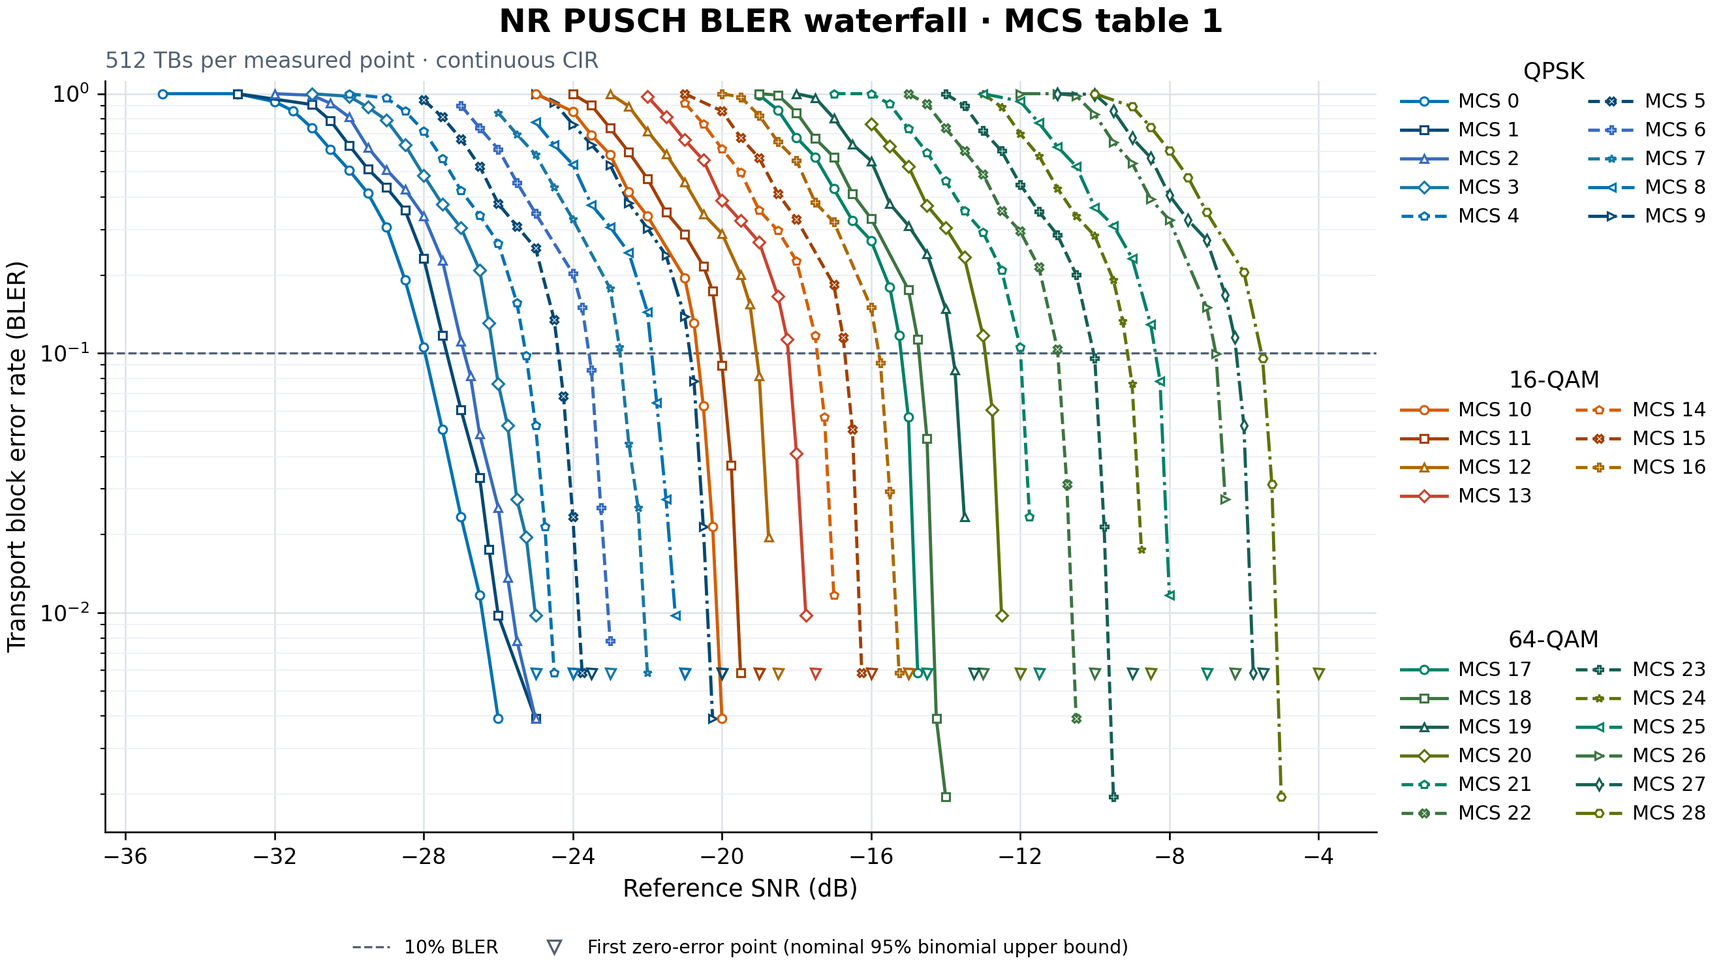
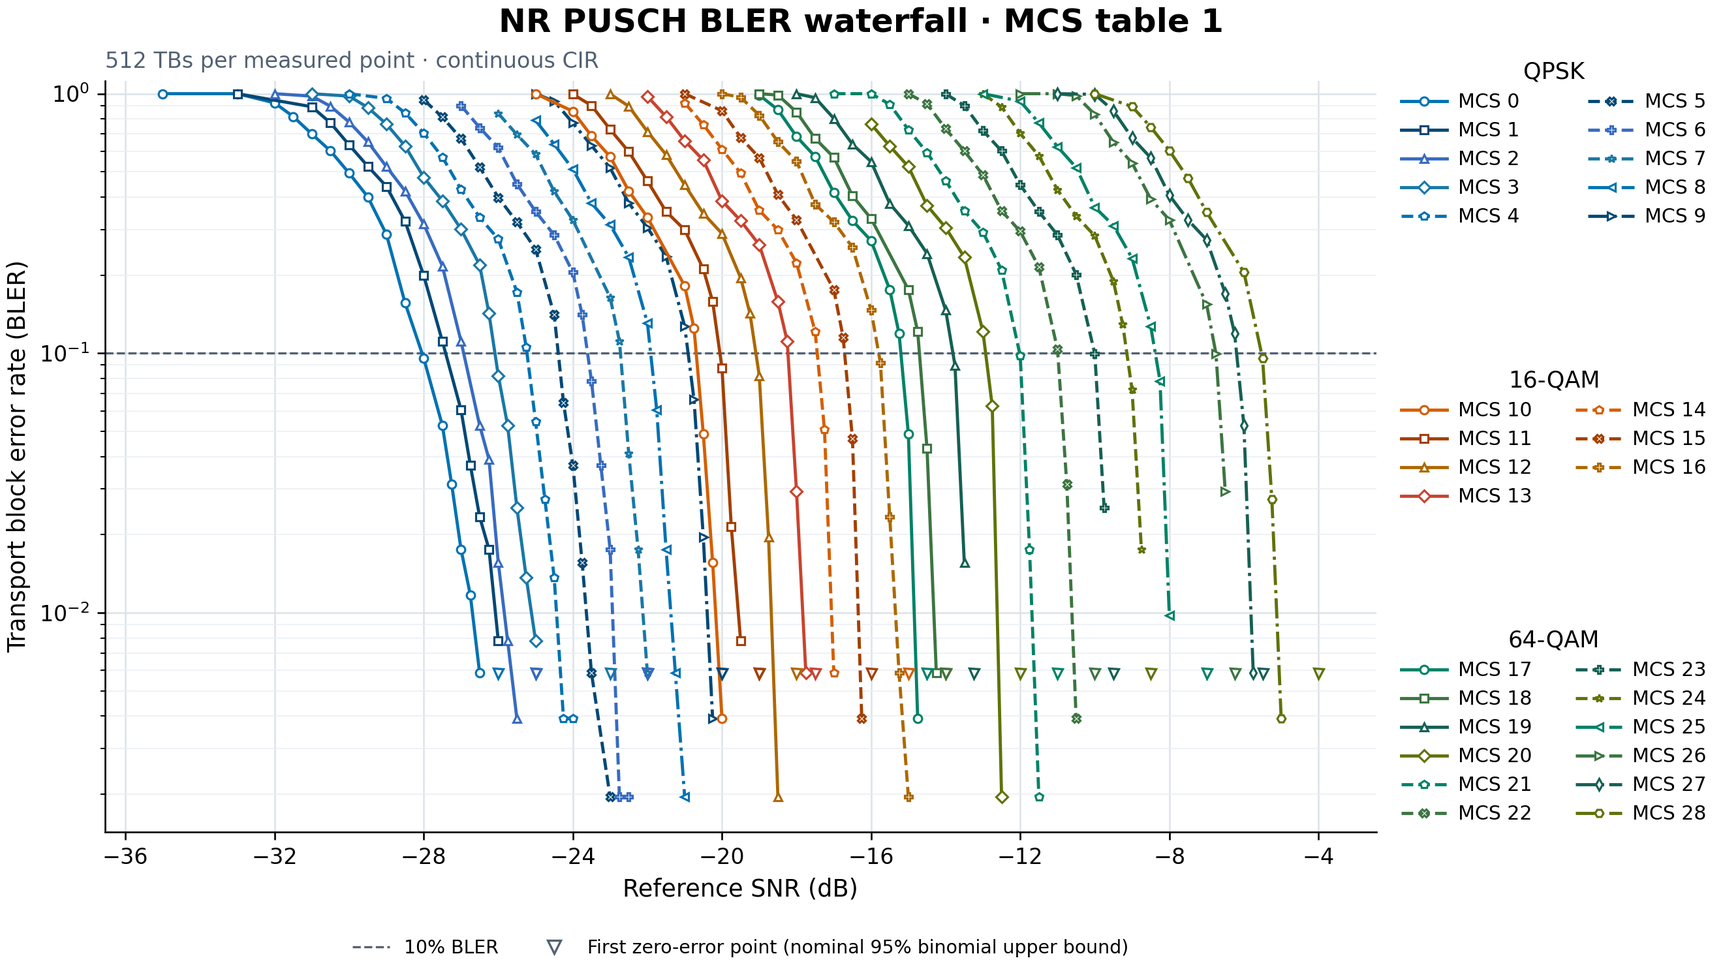
Fix SRS periodicity semantics and review findings
- TDD SRS now sounds on the first S slot at least srs_period_slots after the previous SRS (TS 38.211 T_SRS); DSUDD + 5 sounds every 5 slots
- Waterfall channel bank honors srs_estimator=perfect and records it
- Custom continuous CIR raises a clear error when total_slots does not cover the timeline
- Measurement-stage DM-RS/scrambling use the physical slot number
- OllaSettings.fit_budget shrinks windows for --num-tb/--warmup-tb overrides; add --seed to run_uplink/run_ice_rce
- README: SRS period/power assumptions, single-drop statistics note, regenerated showcase figures
- Tests: 90 passing

diff --git a/pusch_baseline/tests/test_tdd_simulation.py b/pusch_baseline/tests/test_tdd_simulation.py
@@ -54,13 +54,14 @@ class TddSimulationTests(unittest.TestCase):
         result = simulate(self.config, channel_model_factory=factory)
         point, = result["points"]
 
+        # srs_period_slots=5 sounds every S slot of DSUDD, once per 5-slot period.
         indicated = point["srs_grants"]
-        self.assertEqual([grant["slot_index"] for grant in indicated], [1, 11, 21])
-        self.assertEqual([grant["tpmi"] for grant in indicated], [0, 3, 0])
+        self.assertEqual([grant["slot_index"] for grant in indicated], [1, 6, 11, 16, 21])
+        self.assertEqual([grant["tpmi"] for grant in indicated], [0, 3, 0, 3, 0])
         self.assertTrue(all(isfinite(grant["effective_sinr_db"]) for grant in indicated))
         self.assertEqual((point["num_tb"], point["num_srs_slots"], point["num_slots"]),
-                         (5, 3, 23))
-        self.assertEqual(point["num_idle_slots"], 15)
+                         (5, 5, 23))
+        self.assertEqual(point["num_idle_slots"], 13)
         self.assertEqual(point["tb_errors"], 0)
         self.assertEqual({grant["tpmi"]: grant["num_tb"] for grant in point["grant_counts"]},
                          {0: 3, 3: 2})
@@ -68,15 +69,15 @@ class TddSimulationTests(unittest.TestCase):
                                point["thp_scheduled_mbps"] * 5 / 23)
         self.assertEqual(point["thp_wall_clock_mbps"], point["thp_including_srs_mbps"])
         clusters = point["throughput_srs_clusters"]
-        self.assertEqual([cluster["srs_slot_index"] for cluster in clusters], [1, 11, 21])
-        self.assertEqual([cluster["num_slots"] for cluster in clusters], [11, 10, 2])
+        self.assertEqual([cluster["srs_slot_index"] for cluster in clusters], [1, 6, 11, 16, 21])
+        self.assertEqual([cluster["num_slots"] for cluster in clusters], [6, 5, 5, 5, 2])
         self.assertEqual(sum(cluster["delivered_payload_bits"] for cluster in clusters),
                          point["delivered_payload_bits"])
-        self.assertEqual(point["throughput_ci95_num_clusters"], 3)
+        self.assertEqual(point["throughput_ci95_num_clusters"], 5)
         low, high = point["throughput_ci95_mbps"]
         self.assertLess(low, point["thp_wall_clock_mbps"])
         self.assertGreater(high, point["thp_wall_clock_mbps"])
-        self.assertEqual(cir_lengths, [98, 98, 28])
+        self.assertEqual(cir_lengths, [28] * 5)
         self.assertEqual(result["metadata"]["adaptation"]["srs_sounded_prbs"], 8)
         self.assertEqual(result["metadata"]["adaptation"]["srs_symbols"], (10, 11, 12, 13))
         self.assertEqual(result["metadata"]["adaptation"]["srs_cyclic_shifts"], (0, 2, 4, 6))
@@ -107,7 +108,8 @@ class TddSimulationTests(unittest.TestCase):
         result = simulate(ideal_cfg, channel_model_factory=factory)
         point, = result["points"]
         self.assertEqual(result["metadata"]["adaptation"]["srs_estimator"], "perfect")
-        self.assertEqual([grant["tpmi"] for grant in point["srs_grants"]], [3])
+        # Two TBs on DSUDD with a 5-slot period use two SRS epochs.
+        self.assertEqual([grant["tpmi"] for grant in point["srs_grants"]], [3, 3])
 
     def test_tdd_validation_rejects_missing_slots_partial_band_or_double_duty(self):
         config = self.config

diff --git a/pusch_baseline/tests/test_mcs_waterfall_channel.py b/pusch_baseline/tests/test_mcs_waterfall_channel.py
@@ -39,6 +39,21 @@ class McsWaterfallChannelTests(unittest.TestCase):
             self.assertEqual(weights.shape, (2, 4, 4))
             np.testing.assert_array_equal(weights, np.load(second / "weights.npy")[::-1])
             np.testing.assert_allclose(np.sum(np.abs(weights)**2, axis=-1), 1.0, atol=1e-7)
+
+    def test_precoder_is_held_for_every_pusch_slot_of_one_srs_epoch(self):
+        config_path = Path(__file__).resolve().parents[1] / "configs/cdl_c_4t64r_codebooks_long.json"
+        cfg = load_config(config_path)
+        # A 10-slot period on DSUDD serves two U slots (2 and 7) per SRS.
+        cfg = replace(
+            cfg,
+            carrier=replace(cfg.carrier, n_size_grid=4),
+            channel=replace(cfg.channel, bs_panel=replace(cfg.channel.bs_panel, rows=2, cols=2)),
+            adaptation=replace(cfg.adaptation, srs_period_slots=10),
+        )
+        with TemporaryDirectory() as temp:
+            write_channel_bank(cfg, [-12, -6], 4, Path(temp))
+            np.testing.assert_array_equal(np.load(Path(temp) / "slots.npy"), [2, 7, 12, 17])
+            weights = np.load(Path(temp) / "weights.npy")
             np.testing.assert_array_equal(weights[:, :1], weights[:, 1:2])
             np.testing.assert_array_equal(weights[:, 2:3], weights[:, 3:4])
 
@@ -62,3 +77,23 @@ class McsWaterfallChannelTests(unittest.TestCase):
             power_by_port = np.abs(np.load(capped_dir / "weights.npy"))**2
             np.testing.assert_allclose(np.max(power_by_port, axis=-1), 0.25, atol=1e-7)
             self.assertAlmostEqual(capped["mean_data_re_tx_power"], np.sum(power_by_port, axis=-1).mean())
+
+    def test_ideal_srs_bank_selects_noise_free_precoders_on_the_same_channels(self):
+        config_path = Path(__file__).resolve().parents[1] / "configs/cdl_c_4t64r_codebooks_long.json"
+        cfg = load_config(config_path)
+        cfg = replace(
+            cfg,
+            carrier=replace(cfg.carrier, n_size_grid=4),
+            channel=replace(cfg.channel, bs_panel=replace(cfg.channel.bs_panel, rows=2, cols=2)),
+        )
+        with TemporaryDirectory() as temp:
+            real_dir = Path(temp) / "real"
+            ideal_dir = Path(temp) / "ideal"
+            real = write_channel_bank(cfg, [-30, 10], 4, real_dir)
+            ideal_cfg = replace(cfg, adaptation=replace(cfg.adaptation, srs_estimator="perfect"))
+            ideal = write_channel_bank(ideal_cfg, [-30, 10], 4, ideal_dir)
+            self.assertEqual((real["srs_estimator"], ideal["srs_estimator"]), ("real", "perfect"))
+            np.testing.assert_array_equal(np.load(real_dir / "channel.npy"), np.load(ideal_dir / "channel.npy"))
+            # Noise-free sounding picks the same precoder at every SNR.
+            weights = np.load(ideal_dir / "weights.npy")
+            np.testing.assert_array_equal(weights[0], weights[1])

diff --git a/pusch_baseline/mcs_waterfall_channel.py b/pusch_baseline/mcs_waterfall_channel.py
@@ -69,7 +69,8 @@ def write_channel_bank(cfg, snrs, num_tb, directory, *, on_progress=None):
     sionna_config.seed = cfg.sweep.seed
     epochs = list(_sounding_epochs(settings, num_tb))
     total_slots = epochs[-1][-1] + 1
-    channel = SoundingChannel(cfg, None, estimator, total_slots=total_slots)
+    srs_ideal = settings.srs_estimator == "perfect"
+    channel = SoundingChannel(cfg, None, estimator, full_sounding_grid=srs_ideal, total_slots=total_slots)
     srs_noise = np.random.default_rng(cfg.sweep.seed)
     slots_per_frame = 10 * cfg.carrier.subcarrier_spacing_khz // 15
 
@@ -80,13 +81,16 @@ def write_channel_bank(cfg, snrs, num_tb, directory, *, on_progress=None):
         responses = channel.slots(tuple(slot - pilot_slot for slot in epoch), start_slot=pilot_slot)
         sounding = np.ascontiguousarray(next(responses))
         digest.update(memoryview(sounding).cast("B"))
+        # Draw the SRS noise seed in both modes so real and ideal banks stay paired.
         srs_seed = int(srs_noise.integers(0, 2**32))
         selected = np.empty((len(snrs), grant.num_antenna_ports), dtype=dtype)
         for snr_index, noise in enumerate(noise_variance):
-            estimate = estimator.estimate_from_pilots(sounding, float(noise), np.random.default_rng(srs_seed))
+            estimate = sounding if srs_ideal else estimator.estimate_from_pilots(
+                sounding, float(noise), np.random.default_rng(srs_seed),
+            )
             key, _ = select_grants(
                 estimate, float(noise), candidates, None, 0.0, {None: candidates},
-                srs_error_variance=srs_error_variances[snr_index],
+                srs_error_variance=None if srs_ideal else srs_error_variances[snr_index],
             )[None]
             selected[snr_index] = candidates[key][0][:, 0]
 
@@ -113,13 +117,15 @@ def write_channel_bank(cfg, snrs, num_tb, directory, *, on_progress=None):
         "seed": cfg.sweep.seed,
         "num_tpmi_candidates": len(candidates),
         "tx_power_mode": settings.tx_power_mode,
+        "srs_estimator": settings.srs_estimator,
         "srs_power_per_active_re": estimator.power_per_active_re,
         "mean_data_re_tx_power": (1.0 if settings.tx_power_mode == "full_power" else
                                   float(np.mean(np.sum(np.abs(weights)**2, axis=-1)))),
         "ue_yaw_offsets_deg": list(cfg.channel.ue_yaw_offsets_deg),
         "physical_sha256": digest.hexdigest(),
         "physical_sha256_definition": (
-            "C-order complex bytes of each epoch's raw SRS pilot CFR followed "
+            "C-order complex bytes of each epoch's SRS observation (raw pilot CFR, or the "
+            "full-band CFR averaged over SRS symbols for an ideal SRS estimator) followed "
             "by full PUSCH slot CFRs, in physical-slot order"
         ),
     }

diff --git a/pusch_baseline/adaptive_simulation.py b/pusch_baseline/adaptive_simulation.py
@@ -189,7 +189,12 @@ class SoundingChannel:
 
 
 def _sounding_epochs(settings, tb_limit):
-    """Yield an SRS slot followed by its PUSCH slots on the physical timeline."""
+    """Yield an SRS slot followed by its PUSCH slots on the physical timeline.
+
+    With a TDD pattern, SRS uses the first S slot, then each first S slot at
+    least ``srs_period_slots`` after the previous SRS (the TS 38.211 periodicity
+    T_SRS whenever it is a multiple of the S-slot spacing).
+    """
     pattern = settings.tdd_pattern
     if pattern is None:
         data_per_epoch = settings.srs_period_slots - 1
@@ -203,7 +208,7 @@ def _sounding_epochs(settings, tb_limit):
     sent = 0
     for slot in count():
         kind = pattern[slot % len(pattern)]
-        if kind == "S" and (not epoch or slot - epoch[0] > settings.srs_period_slots):
+        if kind == "S" and (not epoch or slot - epoch[0] >= settings.srs_period_slots):
             if epoch:
                 yield epoch
             epoch = [slot]
@@ -396,7 +401,7 @@ def _next_stage_slot_offset(settings, tb_limit: int) -> int:
     if pattern is None:
         return last_srs + settings.srs_period_slots - first_srs
     for slot in count(last_srs + 1):
-        if pattern[slot % len(pattern)] == "S" and slot - last_srs > settings.srs_period_slots:
+        if pattern[slot % len(pattern)] == "S" and slot - last_srs >= settings.srs_period_slots:
             return slot - first_srs
 
 
@@ -465,7 +470,9 @@ def _build_adaptive_metadata(
         metadata["channel_fingerprints_sha256"] = {"warmup": warmup_hash, "measurement": measurement_hash}
     if tdd:
         metadata["adaptation"]["tdd_pattern"] = settings.tdd_pattern
-        metadata["adaptation"]["srs_trigger"] = "first S slot, then elapsed slots strictly greater than configured period"
+        metadata["adaptation"]["srs_trigger"] = (
+            "first S slot, then the first S slot at least srs_period_slots after the previous SRS"
+        )
 
 
 def simulate_adaptive(cfg, metadata, channel_model_factory, on_point, *, codebooks=None, on_progress=None):
@@ -580,7 +587,8 @@ def simulate_adaptive(cfg, metadata, channel_model_factory, on_point, *, codeboo
             for data_slot, response in zip(epoch[1:], responses):
                 if channel_hash is not None:
                     channel_hash.update(np.asarray(response[..., 0, 0]).tobytes())
-                slot_number = (cfg.carrier.slot_number + data_slot) % slots_per_frame
+                # DM-RS and scrambling follow the physical slot of the shared CIR timeline.
+                slot_number = (cfg.carrier.slot_number + slot_offset + data_slot) % slots_per_frame
                 for snr_db, grants in decisions.items():
                     state = states[snr_db]
                     if state.stop_reason != "max_tb":

diff --git a/run_uplink.py b/run_uplink.py
@@ -77,6 +77,7 @@ def main(argv: list[str] | None = None) -> int:
                         help="Override the adaptive PUSCH and SRS power model.")
     parser.add_argument("--channel-evolution", choices=("per_period", "continuous"),
                         help="Override CIR continuity across SRS periods.")
+    parser.add_argument("--seed", type=int, help="Override the channel, SRS-noise and payload seed.")
     args = parser.parse_args(argv)
 
     try:
@@ -88,6 +89,8 @@ def main(argv: list[str] | None = None) -> int:
             sweep_overrides["snr_db"] = args.snr
         if args.num_tb is not None:
             sweep_overrides["num_tb_per_snr"] = args.num_tb
+        if args.seed is not None:
+            sweep_overrides["seed"] = args.seed
         cfg = replace(cfg, sweep=replace(cfg.sweep, **sweep_overrides))
         if args.ue_yaw_offsets is not None:
             cfg = replace(cfg, channel=replace(cfg.channel, ue_yaw_offsets_deg=args.ue_yaw_offsets))
@@ -99,14 +102,12 @@ def main(argv: list[str] | None = None) -> int:
             if cfg.adaptation is None:
                 raise ValueError("--channel-evolution requires an adaptive configuration")
             cfg = replace(cfg, adaptation=replace(cfg.adaptation, channel_evolution=args.channel_evolution))
-        if args.warmup_tb is not None:
-            if cfg.adaptation is None or cfg.adaptation.olla is None:
-                raise ValueError("--warmup-tb requires adaptation.olla in the configuration")
-            olla = cfg.adaptation.olla
-            max_window = args.warmup_tb
-            if olla.max_mcs_spread is not None:
-                max_window = min(args.warmup_tb // 3, cfg.sweep.num_tb_per_snr // 3)
-            olla = replace(olla, warmup_tb=args.warmup_tb, window_tb=max(1, min(olla.window_tb, max_window)))
+        if args.warmup_tb is not None and (cfg.adaptation is None or cfg.adaptation.olla is None):
+            raise ValueError("--warmup-tb requires adaptation.olla in the configuration")
+        if cfg.adaptation is not None and cfg.adaptation.olla is not None and (
+            args.warmup_tb is not None or args.num_tb is not None
+        ):
+            olla = cfg.adaptation.olla.fit_budget(cfg.sweep.num_tb_per_snr, args.warmup_tb)
             cfg = replace(cfg, adaptation=replace(cfg.adaptation, olla=olla))
         cfg.validate()
 

diff --git a/run_ice_rce.py b/run_ice_rce.py
@@ -214,6 +214,7 @@ def main(argv: list[str] | None = None) -> int:
                         help="Comma-separated CDL UE yaw offsets in degrees, sampled per SRS period.")
     parser.add_argument("--channel-evolution", choices=("per_period", "continuous"),
                         help="Override CIR continuity across SRS periods.")
+    parser.add_argument("--seed", type=int, help="Override the channel, SRS-noise and payload seed.")
     args = parser.parse_args(argv)
 
     try:
@@ -229,6 +230,8 @@ def main(argv: list[str] | None = None) -> int:
         sweep_overrides = {"snr_db": snrs}
         if args.num_tb is not None:
             sweep_overrides["num_tb_per_snr"] = args.num_tb
+        if args.seed is not None:
+            sweep_overrides["seed"] = args.seed
         cfg = replace(cfg, sweep=replace(cfg.sweep, **sweep_overrides))
         if args.ue_yaw_offsets is not None:
             cfg = replace(cfg, channel=replace(cfg.channel, ue_yaw_offsets_deg=args.ue_yaw_offsets))
@@ -241,15 +244,12 @@ def main(argv: list[str] | None = None) -> int:
             adaptation = replace(adaptation, tx_power_mode=args.tx_power_mode)
         if args.channel_evolution is not None:
             adaptation = replace(adaptation, channel_evolution=args.channel_evolution)
-        if args.warmup_tb is not None:
-            if adaptation.olla is None:
-                raise ValueError("--warmup-tb requires adaptation.olla in the configuration")
-            max_window = args.warmup_tb
-            if adaptation.olla.max_mcs_spread is not None:
-                max_window = min(args.warmup_tb // 3, cfg.sweep.num_tb_per_snr // 3)
-            olla = replace(adaptation.olla, warmup_tb=args.warmup_tb,
-                           window_tb=max(1, min(adaptation.olla.window_tb, max_window)))
-            adaptation = replace(adaptation, olla=olla)
+        if args.warmup_tb is not None and adaptation.olla is None:
+            raise ValueError("--warmup-tb requires adaptation.olla in the configuration")
+        if adaptation.olla is not None and (args.warmup_tb is not None or args.num_tb is not None):
+            adaptation = replace(
+                adaptation, olla=adaptation.olla.fit_budget(cfg.sweep.num_tb_per_snr, args.warmup_tb),
+            )
         cfg = replace(cfg, adaptation=adaptation)
         cfg.validate()
 

diff --git a/pusch_baseline/tests/test_continuous_channel.py b/pusch_baseline/tests/test_continuous_channel.py
@@ -143,9 +143,37 @@ class ContinuousChannelTests(unittest.TestCase):
         self.assertEqual(len(seen_calls), 1)
         self.assertEqual(runs["full"]["metadata"]["adaptation"]["channel_evolution"], "continuous")
         full_point, = runs["full"]["points"]
-        # Measurement epoch 0 is at physical slot 11 (< 20 -> port 0, TPMI 0); epoch 1 at slot 21 (>= 20 -> port 3, TPMI 3).
-        self.assertEqual([g["tpmi"] for g in full_point["srs_grants"]], [0, 3])
+        # Warmup sounds at slots 1 and 6, so measurement starts at physical slot 11 and sounds
+        # every 5 slots: 11, 16 (< 20 -> port 0, TPMI 0) and 21, 26 (>= 20 -> port 3, TPMI 3).
+        self.assertEqual([g["tpmi"] for g in full_point["srs_grants"]], [0, 0, 3, 3])
         self.assertEqual(full_point["tb_errors"], 0)
+
+    def test_custom_continuous_cir_reports_an_uncovered_timeline(self):
+        base = SimulationConfig()
+        cfg = replace(
+            base,
+            carrier=replace(base.carrier, n_size_grid=8),
+            pusch=replace(base.pusch, num_antenna_ports=4, precoding="codebook"),
+            channel=replace(base.channel, kind="custom", normalize=False, estimator="perfect"),
+            adaptation=AdaptationSettings(
+                tdd_pattern="DSUDD", srs_period_slots=5, srs_start_symbol=10, channel_evolution="continuous",
+            ),
+        )
+
+        def factory(_cfg, _grid):
+            def cir(batch_size, num_time_steps, _fs):
+                return tf.ones((batch_size, 1, 1, 1, 4, 1, num_time_steps), tf.complex64), tf.zeros((1, 1, 1, 1))
+
+            return cir
+
+        est = SrsEstimator(4, 8, 0, start_symbol=10)
+        covered = SoundingChannel(cfg, factory, est, total_slots=12)
+        for start in (1, 6):
+            self.assertEqual(len(list(covered.slots((0, 1), start_slot=start))), 2)
+        uncovered = SoundingChannel(cfg, factory, est)
+        list(uncovered.slots((0, 1), start_slot=1))
+        with self.assertRaisesRegex(ValueError, "total_slots"):
+            list(uncovered.slots((0, 1), start_slot=6))
 
     def test_continuous_normalize_holds_single_drop_rms_across_periods(self):
         base = SimulationConfig()

diff --git a/pusch_baseline/tests/test_waterfall_resume.py b/pusch_baseline/tests/test_waterfall_resume.py
@@ -27,10 +27,12 @@ class WaterfallResumeTests(unittest.TestCase):
     def test_legacy_bank_matches_unchanged_scaling_and_fingerprint(self):
         legacy = {"physical_sha256": "original", "mean_data_re_tx_power": 1.0}
         current = {
-            **legacy, "tx_power_mode": "full_power", "ue_yaw_offsets_deg": [], "srs_power_per_active_re": 1.0,
+            **legacy, "tx_power_mode": "full_power", "srs_estimator": "real",
+            "ue_yaw_offsets_deg": [], "srs_power_per_active_re": 1.0,
         }
         self.assertEqual(_restore_legacy_bank_defaults(legacy), current)
         self.assertNotEqual(_restore_legacy_bank_defaults(legacy), {**current, "tx_power_mode": "per_port"})
+        self.assertNotEqual(_restore_legacy_bank_defaults(legacy), {**current, "srs_estimator": "perfect"})
         self.assertNotEqual(_restore_legacy_bank_defaults(legacy), {**current, "physical_sha256": "different"})
 
     def test_waterfall_snr_grid_supports_power_of_two_sub_db_steps(self):

diff --git a/pusch_baseline/tests/test_olla.py b/pusch_baseline/tests/test_olla.py
@@ -103,6 +103,16 @@ class OllaSettingsTests(unittest.TestCase):
         with self.assertRaisesRegex(ValueError, "target_block_errors"):
             cfg.validate()
 
+    def test_fit_budget_shrinks_windows_for_short_overrides(self):
+        gated = OllaSettings(warmup_tb=500, window_tb=120, max_mcs_spread=1.5)
+        # Only the evaluation budget changes: three windows must still fit into 60 TBs.
+        self.assertEqual(gated.fit_budget(60), replace(gated, window_tb=20))
+        self.assertEqual(gated.fit_budget(300, warmup_tb=240), replace(gated, warmup_tb=240, window_tb=80))
+        gated.fit_budget(60).validate()
+        plain = OllaSettings(warmup_tb=100, window_tb=40)
+        self.assertEqual(plain.fit_budget(10, warmup_tb=30), replace(plain, warmup_tb=30, window_tb=30))
+        self.assertEqual(plain.fit_budget(10), plain)
+
 
 if __name__ == "__main__":
     unittest.main()

diff --git a/pusch_baseline/config.py b/pusch_baseline/config.py
@@ -322,6 +322,18 @@ class OllaSettings:
         deviation = abs(bler - self.target_bler)
         return deviation <= self.tolerance or math.isclose(deviation, self.tolerance)
 
+    def fit_budget(self, num_tb_per_snr: int, warmup_tb: int | None = None) -> OllaSettings:
+        """Override the warmup and shrink window_tb so the TB budgets stay valid.
+
+        A stability gate needs three windows in both stages; otherwise the
+        window only has to fit within the warmup.
+        """
+        warmup = self.warmup_tb if warmup_tb is None else warmup_tb
+        max_window = warmup
+        if self.max_mcs_spread is not None:
+            max_window = min(warmup // 3, num_tb_per_snr // 3)
+        return replace(self, warmup_tb=warmup, window_tb=max(1, min(self.window_tb, max_window)))
+
 
 @dataclass(frozen=True)
 class AdaptationSettings:

diff --git a/pusch_baseline/continuous_channel.py b/pusch_baseline/continuous_channel.py
@@ -129,6 +129,12 @@ class ContinuousCir:
             finally:
                 self._rng.reset(caller_state)
         path_gains, delays = self._cached_custom
+        available = int(path_gains.shape[-1])
+        if int(tf.reduce_max(indices).numpy()) >= available:
+            raise ValueError(
+                f"Custom continuous CIR holds {available} OFDM symbols; pass total_slots to "
+                "SoundingChannel (or total_symbols to ContinuousCir) to cover the whole timeline"
+            )
         return tf.gather(path_gains, indices, axis=-1), delays
 
     def _sample_tdl(self, indices, sampling_frequency: float):

diff --git a/run_mcs_waterfall.py b/run_mcs_waterfall.py
@@ -68,7 +68,7 @@ def _restore_legacy_manifest_defaults(manifest):
 
 
 def _restore_legacy_bank_defaults(bank):
-    return {"tx_power_mode": "full_power", "srs_power_per_active_re": 1.0,
+    return {"tx_power_mode": "full_power", "srs_estimator": "real", "srs_power_per_active_re": 1.0,
             "ue_yaw_offsets_deg": [], **bank}
 
 
